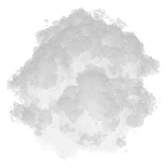
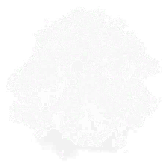
Reverse pre-multiplied alpha of extracted sprites
* GIMP plugin (py) that applies and reverses pre-multiplied alpha.
* Fix extracted smoke sprites.
* Take ownership of non-cover sprites from Tactical Lamp View. Those
  sprites matched the color palette of extracted vanilla sprites, but
  didn't account for those extracted sprites having pre-multiplied
  alpha.

Another option would be to disable the premul and underpaint flags in
build.lua, but that would alternately require doing my own premul
transform on new sprites.

diff --git a/anims/premul.gimp.py b/anims/premul.gimp.py
@@ -1,0 +1,150 @@
+#!/usr/bin/env python
+# -*- coding: utf-8 -*-
+#
+# GIMP plugin to apply and reverse the pre-multiplied Alpha transform used by KWAD packing.
+#
+# Based on https://github.com/jfmdev/PythonFuSamples
+#
+
+import math
+from gimpfu import *
+from array import array
+
+def _createTmpLayer(img, layer):
+  pos = 0;
+  for i in range(len(img.layers)):
+    if (img.layers[i] == layer):
+      pos = i
+  newLayer = gimp.Layer(img, layer.name + " _temp",
+                        layer.width, layer.height, layer.type, layer.opacity, layer.mode)
+  img.add_layer(newLayer, pos)
+  pdb.gimp_edit_clear(newLayer)
+  newLayer.flush()
+  return newLayer
+
+def _finishTmpLayer(img, origLayer, tmpLayer):
+  tmpLayer.flush()
+  tmpLayer.merge_shadow(True)
+  tmpLayer.update(0, 0, tmpLayer.width, tmpLayer.height)
+
+  layerName = origLayer.name
+  img.remove_layer(origLayer)
+  tmpLayer.name = layerName
+  return tmpLayer
+
+def _iterTiles(inLayer, outLayer):
+  tn = int(inLayer.width / gimp.tile_width())
+  if (inLayer.width % gimp.tile_width() > 0):
+    tn += 1
+  tm = int(inLayer.height / gimp.tile_height())
+  if (inLayer.height % gimp.tile_height() > 0):
+    tm += 1
+
+  for i in range(tn):
+    for j in range(tm):
+      gimp.progress_update(float(i*tm + j) / float(tn*tm))
+
+      yield inLayer.get_tile(False, j, i), outLayer.get_tile(False, j, i)
+
+def _iterPixels(inTile):
+    for x in range(inTile.ewidth):
+      for y in range(inTile.eheight):
+        yield x, y, inTile[x,y]
+
+def premul_alpha(img, layer):
+  gimp.progress_init("Pre-Multiplying Alpha " + layer.name + "...")
+  pdb.gimp_image_undo_group_start(img)
+
+  try:
+    newLayer = _createTmpLayer(img, layer)
+
+    for inTile, outTile in _iterTiles(layer, newLayer):
+      for x,y,pxl in _iterPixels(inTile):
+        a = ord(pxl[3])
+        r = int(round(ord(pxl[0]) * a / float(0xFF)))
+        g = int(round(ord(pxl[1]) * a / float(0xFF)))
+        b = int(round(ord(pxl[2]) * a / float(0xFF)))
+        outTile[x,y] = chr(r) + chr(g) + chr(b) + pxl[3]
+
+    _finishTmpLayer(img, layer, newLayer)
+  except Exception as err:
+    gimp.message("Unexpected error: " + str(err))
+
+  pdb.gimp_image_undo_group_end(img)
+  pdb.gimp_progress_end()
+
+ZERO_PXL = "\x00\x00\x00\x00"
+
+def depremul_alpha(img, layer):
+  gimp.progress_init("Pre-Multiplying Alpha " + layer.name + "...")
+  pdb.gimp_image_undo_group_start(img)
+
+  try:
+    newLayer = _createTmpLayer(img, layer)
+
+    divZeroCount = 0
+    overflowCount = 0
+    for inTile, outTile in _iterTiles(layer, newLayer):
+      for x,y,pxl in _iterPixels(inTile):
+        a = ord(pxl[3])
+        r0 = ord(pxl[0])
+        g0 = ord(pxl[1])
+        b0 = ord(pxl[2])
+        if a == 0:
+          if pxl != ZERO_PXL:
+            divZeroCount += 1
+            if divZeroCount <= 1:
+              gimp.message("Warning: Non-empty pixel with alpha=0: %02x,%02x,%02x,%02x"
+                           % (r0, g0, b0, a))
+          outTile[x,y] = pxl
+          continue
+        r = int(round(r0 * 0xFF / float(a)))
+        g = int(round(g0 * 0xFF / float(a)))
+        b = int(round(b0 * 0xFF / float(a)))
+        if r > 0xFF or g > 0xFF or b > 0xFF:
+          overflowCount += 1
+          if overflowCount <= 1:
+            gimp.message("Warning: Overflow: %02x,%02x,%02x,%02x -> %02x,%02x,%02x."
+                         % (r0, g0, b0, a, r, g, b))
+          r = min(r, 0xFF)
+          g = min(g, 0xFF)
+          b = min(b, 0xFF)
+        outTile[x,y] = chr(r) + chr(g) + chr(b) + pxl[3]
+
+    if divZeroCount > 0:
+      gimp.message("Warning: %d DIV0 pixels" % divZeroCount)
+    if overflowCount > 0:
+      gimp.message("Warning: %d overflow pixels" % overflowCount)
+    _finishTmpLayer(img, layer, newLayer)
+  except Exception as err:
+    gimp.message("Unexpected error: " + str(err))
+
+  pdb.gimp_image_undo_group_end(img)
+  pdb.gimp_progress_end()
+
+register(
+        "python_fu_qed_kwad_premul",
+        "Pre-Multiply Alpha for KWADs",
+        "Pre-Multiply Alpha for KWADs",
+        "Qoalabear",
+        "",
+        "",
+        "<Image>/Filters/QED/Pre-Multiply Alpha",
+        "RGBA",
+        [],
+        [],
+        premul_alpha)
+register(
+        "python_fu_qed_kwad_depremul",
+        "Reverse Pre-Multiply Alpha for KWADs",
+        "Reverse Pre-Multiply Alpha for KWADs",
+        "Qoalabear",
+        "",
+        "",
+        "<Image>/Filters/QED/Reverse Pre-Multiply Alpha",
+        "RGBA",
+        [],
+        [],
+        depremul_alpha)
+
+main()
